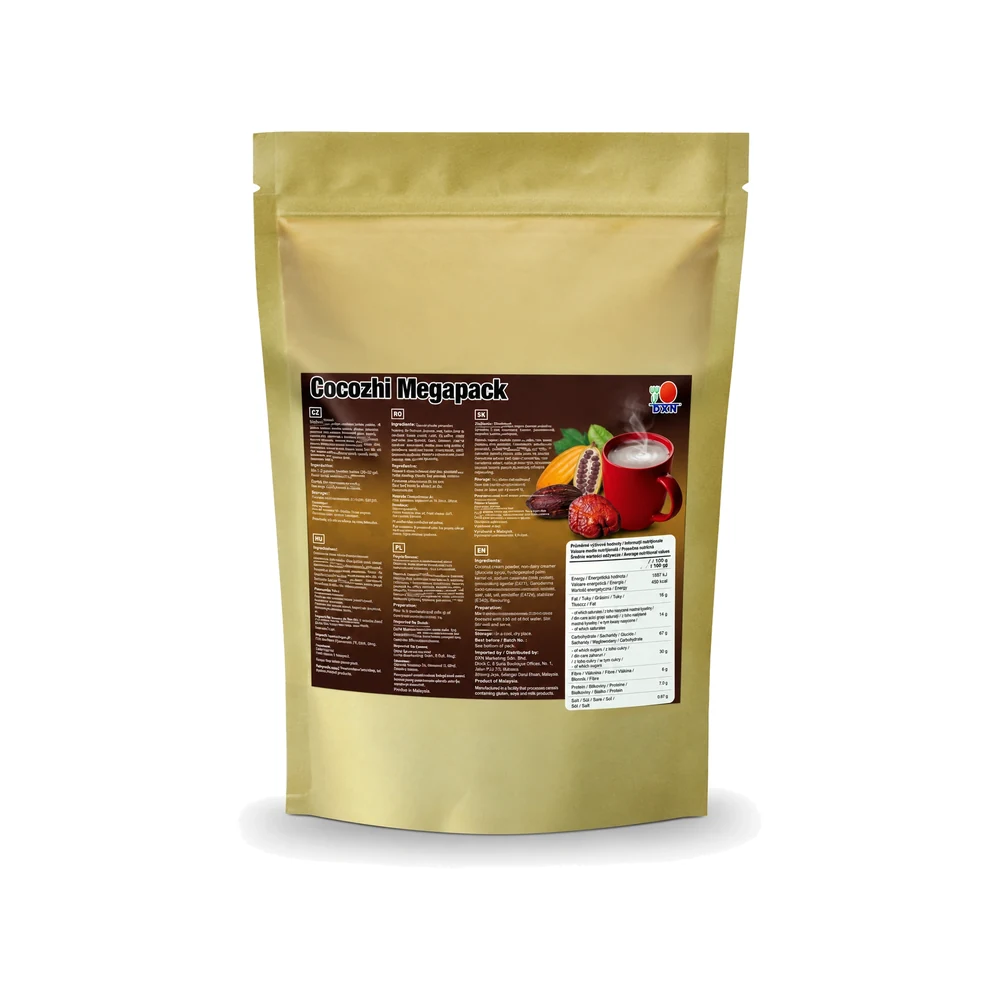
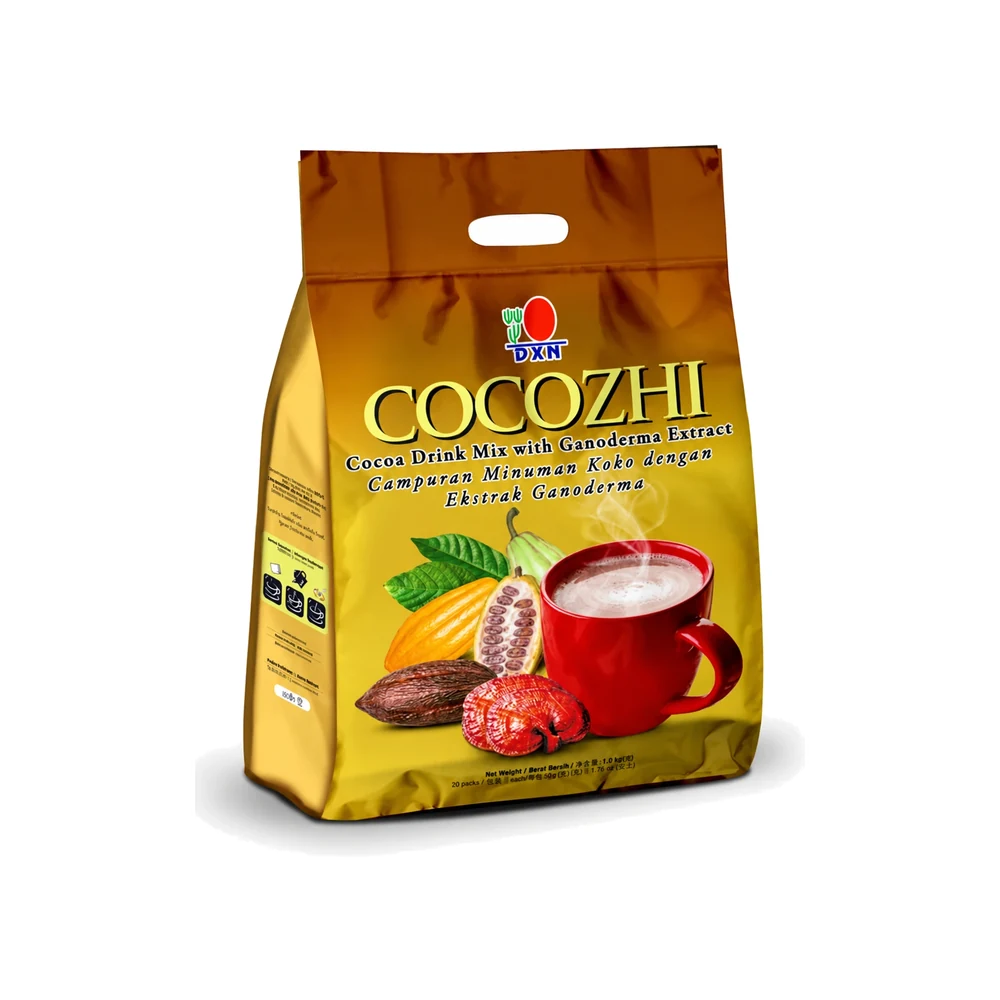
Catalogue : faces avant des quatre Megapack et visuel Brook Coffee, 103 produits sur 103 avec visuel
Sur capture annotée, le gérant barre les Megapack (dos du sachet kraft) et
Brook Coffee. Faces avant retouchées et visuel Brook Coffee déposés dans le
dossier des retouches, copiés sous le slug (fond transparent aplati sur blanc),
détourés, normalisés, importés. Les faces avant sont celles du format courant,
pas du sachet vrac : choix du gérant, format réel conservé sur la fiche.

diff --git a/tools/rediger-catalogue.py b/tools/rediger-catalogue.py
@@ -218,7 +218,7 @@ dict(slug="lingzhi-coffee-3-en-1-mp", nom="DXN Lingzhi Coffee 3 in 1 MP — 1 kg
  description="Même recette que le Lingzhi Coffee 3 in 1 — café, crème végétale, sucre de canne et extrait de Ganoderma lucidum — en sachet de 1 kg.\n\nUn sachet individuel fait 21 g : ce format en représente près de 48. Se conserve bien fermé, à l'abri de l'humidité.",
  composition="Café soluble, crème végétale, sucre de canne, extrait de Ganoderma lucidum. Liste complète sur l'emballage.",
  usage="Mettre environ 21 g (deux cuillères à soupe) dans une tasse.\nAjouter de l'eau chaude et remuer."),
-dict(slug="brook-coffee", nom="DXN Brook Coffee", categorie=AB, prix="35.20", image="", format="Sachet de 500 g",
+dict(slug="brook-coffee", nom="DXN Brook Coffee", categorie=AB, prix="35.20", image="brook-coffee.webp", format="Sachet de 500 g",
  accroche="Un café moulu au Ganoderma, pour cafetière filtre, piston ou italienne.",
  description="Le Brook Coffee est le seul café moulu de la gamme : il se prépare de façon traditionnelle, en cafetière filtre, à piston ou italienne, et non à l'eau chaude dans la tasse. Il contient de l'extrait de Ganoderma lucidum.\n\nSachet de 500 g. À conserver bien fermé, à l'abri de la lumière et de l'humidité.",
  composition="Café moulu, extrait de Ganoderma lucidum. Liste complète sur l'emballage.",

diff --git a/_velix/journal.md b/_velix/journal.md
@@ -82,6 +82,7 @@ Une ligne par intervention. Les agents `velix-*` lisent ce dossier avant de trav
 | 2026-10-26 | chef de projet | **Recherche de visuels en ligne pour les 64 restants** (demande du gérant). dxn2u.eu (DXN Europe) couvre 54 codes mais avec le filigrane « DXN's Property » : écarté, pas de retrait de filigrane. kallowshop.gr (boutique officielle Kallow) : after-shave, Summer Bling, Pink Glow et Natural Shield en 1200 × 1500 sans filigrane, posés par le nouveau `tools/poser-visuels-recus.py` (rattachement par slug ou code DXN, détourage par remplissage, WebP alpha). **61 références sans visuel**, toutes DXN sauf les 6 monodoses Kallow. Higgsfield : 2 crédits, plan gratuit. Plan d'action remis au gérant : images de l'espace membre DXN ou photos du stock de Fati (pipeline prêt), sinon packshots provisoires payants, sinon gabarit « Visuel à venir ». À confirmer : brumes 100 ml (catalogue) ou 150 ml (bouteille grecque). Publié en préversion. | `poser-visuels-recus.py`, `medias.md` |
 | 2026-10-26 | chef de projet | **54 visuels DXN sans filigrane.** Le gérant a livré les références dxn2u.eu retouchées (reconstruction générative, PNG 1098 × 1433 sur blanc, nommées « code - nom »). Posées par `poser-visuels-recus.py`, normalisées, 54 colonnes `image` renseignées, importées en local et publiées en préversion. L'huile de coco quitte le rendu de synthèse pour sa vraie photo. **7 références sans visuel** (Brook Coffee et les six monodoses Kallow, aucune image nulle part). Réserve notée dans `medias.md` : les petits textes des quatre Megapack sont reconstruits par l'outil, à contrôler sur l'emballage avant la production. | `medias.md`, `visuels-manquants.md`, `rediger-catalogue.py` |
 | 2026-10-26 | chef de projet | **Monodoses et échantillons Kallow : visuel du produit parent.** Retour du gérant : ce sont des échantillons du même produit, donc même image. Les six fiches SC101–SC106 pointent le fichier du parent dans la colonne `image` (pièce jointe par fiche, aucun fichier dupliqué). Importé en local et publié en préversion. **1 référence sans visuel : Brook Coffee.** | `rediger-catalogue.py`, `medias.md`, `visuels-manquants.md` |
+| 2026-10-26 | chef de projet | **Faces avant des Megapack et Brook Coffee.** Sur capture annotée, le gérant barre les quatre Megapack (dos du sachet kraft) et Brook Coffee : faces avant retouchées et visuel Brook Coffee déposés dans le même dossier, copiés sous le slug (fond transparent aplati), détourés, normalisés, importés en local et publiés en préversion. Les faces avant sont celles du format courant, pas du sachet vrac — choix du gérant, format réel conservé sur la fiche. **Plus aucune référence sans visuel (103/103).** Contour des yeux, huile de nuit et sachets Cocozhi déposés en plus : non utilisés (doublons ou format différent). | `medias.md`, `visuels-manquants.md`, `rediger-catalogue.py` |
 
 ## À fournir par le client
 

diff --git a/_velix/medias.md b/_velix/medias.md
@@ -95,7 +95,7 @@ Sebastian », texte incrusté) que le gérant a jugée hors contexte et pas prof
 l'ancienne est dans `sources/about-main-san-sebastian.webp`. Le hero et ce portrait viennent de la
 même photo : c'est un intérim, la cible reste une vraie séance (blueprint E.5).
 
-## Références sans visuel (16 octobre 2026 — 76 ; 1 depuis le soir du 26 octobre, voir plus bas)
+## Références sans visuel (16 octobre 2026 — 76 ; plus aucune depuis le soir du 26 octobre, voir plus bas)
 
 Les 75 produits ajoutés d'après le catalogue DXN de février 2026 n'ont pas de visuel (`image=""`
 dans `rediger-catalogue.py`, méta `_fati_indispo`) ; le thème affiche `placeholder-produit.svg` et
@@ -249,8 +249,18 @@ synthèse écarté le 16 octobre.
 reprennent le visuel du produit parent — la colonne `image` de `rediger-catalogue.py` pointe le
 fichier du parent (`divine-eye-cream.webp` pour les monodoses du contour des yeux, etc.) ;
 l'importateur crée une pièce jointe par fiche, rien à dupliquer dans `tools/medias/`.
-**1 référence sans visuel** : Brook Coffee (FB616), aucune image nulle part. Le gabarit « Visuel à
-venir » reste pour elle ; voir `visuels-manquants.md`.
+**Deuxième dépôt, même soir — faces avant des Megapack et Brook Coffee.** Les quatre Megapack
+(FB077, FB078, FB079, FB170) montraient le dos du sachet kraft (étiquette de composition) ; le gérant
+a ajouté des faces avant retouchées — ce sont les sachets du format courant (20 sachets), pas le
+sachet vrac de 1 kg / 400 g : décision du gérant, même produit, et la fiche garde le format réel.
+Brook Coffee reçoit un visuel sans filigrane trouvé en ligne (`FB325 - DXN Brook Coffee.webp`,
+700 × 700, le seul disponible — le code FB325 est celui du fichier source, le site garde FB616 du
+catalogue espagnol). Ces fichiers ne portent pas le code DXN en tête : copiés sous le slug dans
+un dossier de travail (fond transparent aplati sur blanc avant le détourage par remplissage),
+puis la chaîne habituelle. **Plus aucune référence sans visuel** ; `visuels-manquants.md` reste pour
+la marche à suivre. Non utilisés, déposés en double : contour des yeux et huile de nuit Kallow
+(mêmes packshots officiels que ceux déjà en ligne), Cocozhi en sachet individuel et en trois
+sachets (le Cocozhi MP a pris la face avant du sachet).
 
 ## Reste à produire
 

diff --git a/_velix/visuels-manquants.md b/_velix/visuels-manquants.md
@@ -1,20 +1,24 @@
-# Visuels manquants — 1 référence au 26 octobre 2026 (soir)
+# Visuels manquants — aucun au 26 octobre 2026 (soir)
 
-Les 54 références DXN listées ici le 26 octobre au matin ont reçu leur visuel le soir même (copies
-retouchées des images dxn2u.eu livrées par le gérant), et les six monodoses et échantillons Kallow
-reprennent le visuel de leur produit parent (décision du gérant). Voir `medias.md`.
+Les 103 produits ont un visuel. Historique du jour : 54 références DXN posées depuis les copies
+retouchées des images dxn2u.eu livrées par le gérant ; six monodoses et échantillons Kallow sur le
+visuel de leur produit parent ; faces avant des quatre Megapack et visuel Brook Coffee en second
+dépôt. Détail et réserves (textes des Megapack reconstruits, faces avant du format courant) dans
+`medias.md`.
 
-| # | Produit | Code DXN | Catégorie | Piste |
-|---|---|---|---|---|
-| 1 | DXN Brook Coffee | FB616 | Alimentation & boissons | photo du stock de Fati (référence récente, absente des banques DXN et des catalogues PDF) |
+## Pour remplacer ou ajouter un visuel
 
-Une fois la photo reçue, la nommer par le code DXN (ou le slug `brook-coffee`) et lancer :
+Nommer le fichier par le code DXN (`FB124 - Cocozhi.png`) ou par le slug (`cocozhi.png`), sur fond
+blanc ou transparent, puis :
 
 ```
 python3 tools/poser-visuels-recus.py <dossier>
 python3 tools/normaliser-visuels.py
-# renseigner image="brook-coffee.webp" dans tools/rediger-catalogue.py, puis :
+# nouveau produit : renseigner image="<slug>.webp" dans tools/rediger-catalogue.py, puis :
 python3 tools/rediger-catalogue.py
 WP="php -d mysqli.default_socket=/Applications/XAMPP/xamppfiles/var/mysql/mysql.sock /usr/local/bin/wp" python3 tools/importer-catalogue.py
 bash tools/publier-contenu-preversion.sh
 ```
+
+Un fichier à fond transparent dont le nom ne porte ni code ni slug se copie sous le slug après
+aplatissement sur blanc (voir `medias.md`, second dépôt du 26 octobre).

diff --git a/tools/medias/sources/produits-dxn-retouches/PROVENANCE.md b/tools/medias/sources/produits-dxn-retouches/PROVENANCE.md
@@ -17,3 +17,13 @@ FB078, FB079 et FB170 sont reconstruits et doivent être vérifiés avec les emb
 Dans le dépôt, ce que ces PNG ont produit : `tools/medias/produits/<slug>.webp` (WebP alpha,
 détouré par `poser-visuels-recus.py`) et `tools/medias/produits-normalises/<slug>.webp`.
 Correspondance code → slug : dictionnaire `CODES` de `tools/rediger-catalogue.py`.
+
+## Second dépôt (26 octobre 2026, soir)
+
+Neuf fichiers ajoutés dans le même dossier, sans code DXN en tête de nom. Utilisés : `DXN Zhi Mocha
+- face avant.png` → zhi-mocha-mp, `DXN Cocozhi - face avant variante.png` → cocozhi-mp, `DXN Lingzhi
+Black Coffee - face avant.png` → lingzhi-black-coffee-mp, `DXN Lingzhi Coffee 3 in 1 - face
+avant.png` → lingzhi-coffee-3-en-1-mp (faces avant du format courant, retouchées comme les 54),
+`FB325 - DXN Brook Coffee.webp` → brook-coffee (700 × 700, fond transparent, copié sans retouche).
+Non utilisés : contour des yeux et huile de nuit Kallow (mêmes packshots que ceux en ligne),
+Cocozhi sachet individuel et trois sachets.
